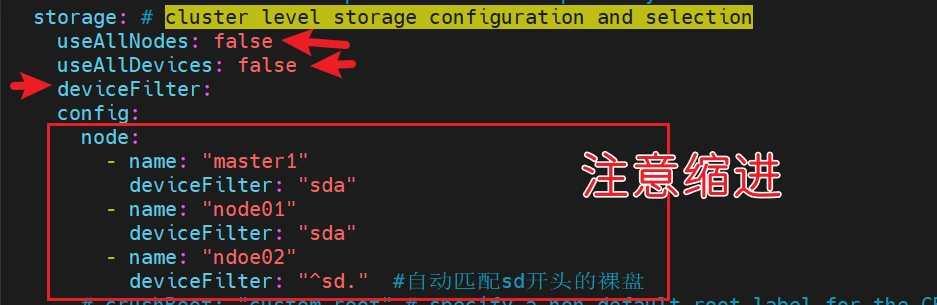
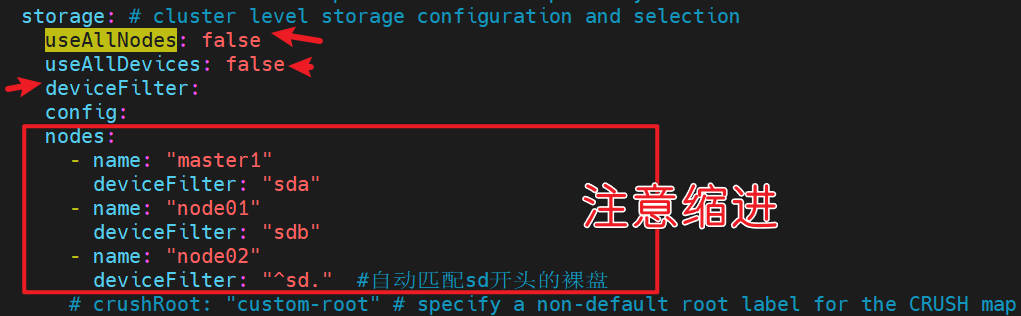
Site updated: 2024-03-06 05:58:40

Changed region(s): [[0.0, 0.0, 1.0, 1.0]]

diff --git a/2023/11/19/rook部署ceph/index.html b/2023/11/19/rook部署ceph/index.html
@@ -28,7 +28,7 @@
 <meta property="og:locale" content="zh_CN">
 <meta property="og:image" content="https://blog.qianyios.top/img/rook%E9%83%A8%E7%BD%B2ceph/4595b90af8405aeecc3e06c4c9ab2dc5697559838.png">
 <meta property="article:published_time" content="2023-11-19T22:29:40.000Z">
-<meta property="article:modified_time" content="2024-01-06T17:04:58.422Z">
+<meta property="article:modified_time" content="2024-03-06T05:57:36.251Z">
 <meta property="article:author" content="严千屹">
 <meta property="article:tag" content="Ceph">
 <meta property="article:tag" content="K8s">
@@ -379,7 +379,7 @@
 <p><img src="/../img/rook%E9%83%A8%E7%BD%B2ceph/c9ffdcc25e86bb74b11a58deed32eccf697559838.png" srcset="/img/loading.gif" lazyload alt="image-20231119011441790"></p>
 <figure class="highlight apache"><table><tr><td class="gutter"><pre><span class="line">1</span><br><span class="line">2</span><br></pre></td><td class="code"><pre><code class="hljs apache"><span class="hljs-comment">#更改为国内镜像</span><br><span class="hljs-attribute">sed</span> -i &#x27;s#image: quay.io/ceph/ceph:v17.<span class="hljs-number">2</span>.<span class="hljs-number">6</span>#image: registry.cn-hangzhou.aliyuncs.com/qianyios/ceph:v17.<span class="hljs-number">2</span>.<span class="hljs-number">6</span>#&#x27; cluster.yaml<br></code></pre></td></tr></table></figure>
 
-<figure class="highlight yaml"><table><tr><td class="gutter"><pre><span class="line">1</span><br><span class="line">2</span><br><span class="line">3</span><br><span class="line">4</span><br><span class="line">5</span><br><span class="line">6</span><br><span class="line">7</span><br><span class="line">8</span><br><span class="line">9</span><br><span class="line">10</span><br><span class="line">11</span><br><span class="line">12</span><br><span class="line">13</span><br><span class="line">14</span><br><span class="line">15</span><br><span class="line">16</span><br><span class="line">17</span><br><span class="line">18</span><br><span class="line">19</span><br><span class="line">20</span><br><span class="line">21</span><br><span class="line">22</span><br></pre></td><td class="code"><pre><code class="hljs yaml"><span class="hljs-string">vim</span> <span class="hljs-string">cluster.yaml</span><br><span class="hljs-string">-------------------------------------</span><br> <br><span class="hljs-bullet">-</span> <span class="hljs-string">修改镜像</span><br>    <span class="hljs-attr">image:</span> <span class="hljs-string">registry.cn-hangzhou.aliyuncs.com/qianyios/ceph:v17.2.6</span><br> <br><span class="hljs-bullet">-</span> <span class="hljs-string">改为false，并非使用所有节点所有磁盘作为osd</span><br><span class="hljs-bullet">-</span> <span class="hljs-string">启用deviceFilter</span><br><span class="hljs-bullet">-</span> <span class="hljs-string">按需配置config</span><br><span class="hljs-bullet">-</span> <span class="hljs-string">会自动跳过非裸盘</span><br>  <span class="hljs-attr">storage:</span> <span class="hljs-comment"># cluster level storage configuration and selection</span><br>    <span class="hljs-attr">useAllNodes:</span> <span class="hljs-literal">false</span><br>    <span class="hljs-attr">useAllDevices:</span> <span class="hljs-literal">false</span><br>    <span class="hljs-attr">deviceFilter:</span><br>    <span class="hljs-attr">config:</span><br>    <span class="hljs-attr">nodes:</span><br>      <span class="hljs-bullet">-</span> <span class="hljs-attr">name:</span> <span class="hljs-string">&quot;master1&quot;</span><br>        <span class="hljs-attr">deviceFilter:</span> <span class="hljs-string">&quot;sda&quot;</span><br>      <span class="hljs-bullet">-</span> <span class="hljs-attr">name:</span> <span class="hljs-string">&quot;node01&quot;</span><br>        <span class="hljs-attr">deviceFilter:</span> <span class="hljs-string">&quot;sda&quot;</span><br>      <span class="hljs-bullet">-</span> <span class="hljs-attr">name:</span> <span class="hljs-string">&quot;ndoe02&quot;</span><br>        <span class="hljs-attr">deviceFilter:</span> <span class="hljs-string">&quot;^sd.&quot;</span>  <span class="hljs-comment">#自动匹配sd开头的裸盘</span><br></code></pre></td></tr></table></figure>
+<figure class="highlight yaml"><table><tr><td class="gutter"><pre><span class="line">1</span><br><span class="line">2</span><br><span class="line">3</span><br><span class="line">4</span><br><span class="line">5</span><br><span class="line">6</span><br><span class="line">7</span><br><span class="line">8</span><br><span class="line">9</span><br><span class="line">10</span><br><span class="line">11</span><br><span class="line">12</span><br><span class="line">13</span><br><span class="line">14</span><br><span class="line">15</span><br><span class="line">16</span><br><span class="line">17</span><br><span class="line">18</span><br><span class="line">19</span><br><span class="line">20</span><br><span class="line">21</span><br><span class="line">22</span><br></pre></td><td class="code"><pre><code class="hljs yaml"><span class="hljs-string">vim</span> <span class="hljs-string">cluster.yaml</span><br><span class="hljs-string">-------------------------------------</span><br> <br><span class="hljs-bullet">-</span> <span class="hljs-string">修改镜像</span><br>    <span class="hljs-attr">image:</span> <span class="hljs-string">registry.cn-hangzhou.aliyuncs.com/qianyios/ceph:v17.2.6</span><br> <br><span class="hljs-bullet">-</span> <span class="hljs-string">改为false，并非使用所有节点所有磁盘作为osd</span><br><span class="hljs-bullet">-</span> <span class="hljs-string">启用deviceFilter</span><br><span class="hljs-bullet">-</span> <span class="hljs-string">按需配置config</span><br><span class="hljs-bullet">-</span> <span class="hljs-string">会自动跳过非裸盘</span><br>  <span class="hljs-attr">storage:</span> <span class="hljs-comment"># cluster level storage configuration and selection</span><br>    <span class="hljs-attr">useAllNodes:</span> <span class="hljs-literal">false</span><br>    <span class="hljs-attr">useAllDevices:</span> <span class="hljs-literal">false</span><br>    <span class="hljs-attr">deviceFilter:</span><br>    <span class="hljs-attr">config:</span><br>    <span class="hljs-attr">nodes:</span><br>      <span class="hljs-bullet">-</span> <span class="hljs-attr">name:</span> <span class="hljs-string">&quot;master1&quot;</span><br>        <span class="hljs-attr">deviceFilter:</span> <span class="hljs-string">&quot;sda&quot;</span><br>      <span class="hljs-bullet">-</span> <span class="hljs-attr">name:</span> <span class="hljs-string">&quot;node01&quot;</span><br>        <span class="hljs-attr">deviceFilter:</span> <span class="hljs-string">&quot;sda&quot;</span><br>      <span class="hljs-bullet">-</span> <span class="hljs-attr">name:</span> <span class="hljs-string">&quot;node02&quot;</span><br>        <span class="hljs-attr">deviceFilter:</span> <span class="hljs-string">&quot;^sd.&quot;</span>  <span class="hljs-comment">#自动匹配sd开头的裸盘</span><br></code></pre></td></tr></table></figure>
 
 <p>这里的三个节点，是我们开头讲到的三台机，自行根据修改调整，注意这里的名字是k8s集群的名字可以在<font color='red'>kubectl get nodes</font>查看</p>
 <p><img src="/../img/rook%E9%83%A8%E7%BD%B2ceph/8defa12ca29d58735dd919b3cd62897f697559838.png" srcset="/img/loading.gif" lazyload alt="image-20231119011622231"></p>
@@ -569,7 +569,7 @@
       
         <div class="license-meta-item license-meta-date">
           <div>更新于</div>
-          <div>2024年1月6日</div>
+          <div>2024年3月6日</div>
         </div>
       
       
